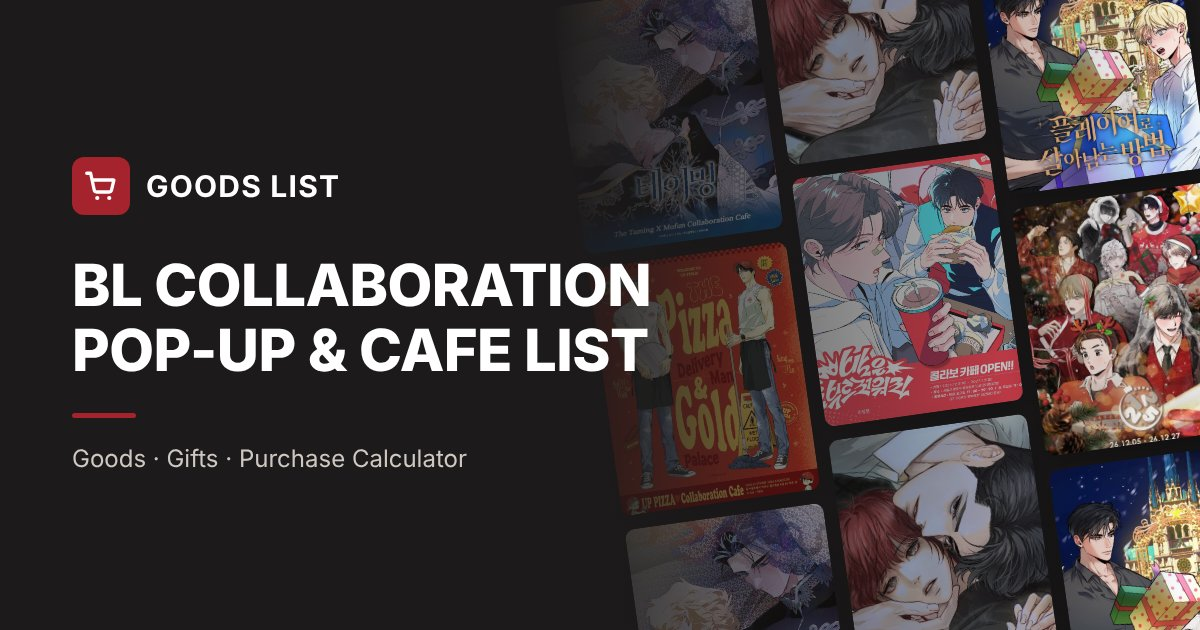
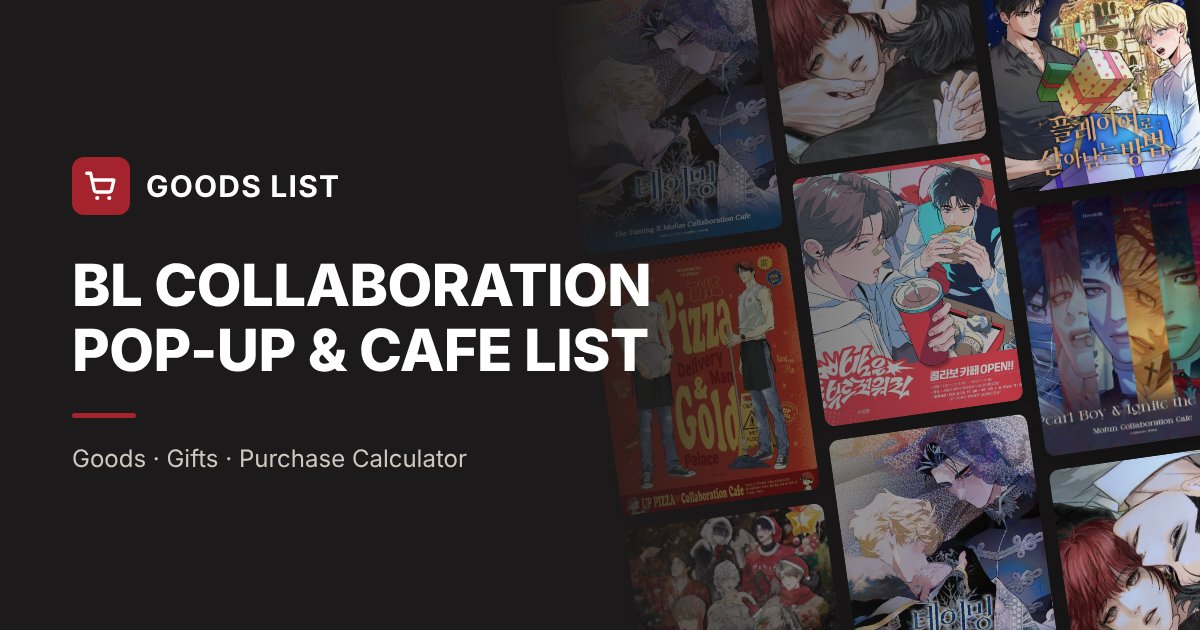
Add 조개소년 & 발화 × 모펀 서교점 event
Claude-Session: https://claude.ai/code/session_016s7oh25f265a5L8SgmxWsx

Changed region(s): [[0.5242, 0.2714, 1.0, 1.0]]

diff --git a/index.html b/index.html
@@ -11,14 +11,14 @@
 <meta property="og:title" content="GOODS LIST · BL 콜라보 팝업 & 카페 리스트">
 <meta property="og:description" content="BL 콜라보 팝업스토어·카페 굿즈 리스트와 구매 특전 계산기. 굿즈를 담으면 특전 개수와 합계를 바로 계산해요.">
 <meta property="og:url" content="https://rinixxxrini.github.io/">
-<meta property="og:image" content="https://rinixxxrini.github.io/img/og.jpg?v=20261126c">
+<meta property="og:image" content="https://rinixxxrini.github.io/img/og.jpg?v=20261127">
 <meta property="og:image:width" content="1200">
 <meta property="og:image:height" content="630">
 <meta property="og:locale" content="ko_KR">
 <meta name="twitter:card" content="summary_large_image">
 <meta name="twitter:title" content="GOODS LIST · BL 콜라보 팝업 & 카페 리스트">
 <meta name="twitter:description" content="BL 콜라보 팝업스토어·카페 굿즈 리스트와 구매 특전 계산기.">
-<meta name="twitter:image" content="https://rinixxxrini.github.io/img/og.jpg?v=20261126c">
+<meta name="twitter:image" content="https://rinixxxrini.github.io/img/og.jpg?v=20261127">
 <link rel="preconnect" href="https://fonts.googleapis.com">
 <link rel="preconnect" href="https://fonts.gstatic.com" crossorigin>
 <link href="https://fonts.googleapis.com/css2?family=Nanum+Myeongjo:wght@700;800&family=IBM+Plex+Sans+KR:wght@400;500;600&display=swap" rel="stylesheet">
@@ -104,9 +104,9 @@ header p{margin:6px 0 0;color:var(--muted);font-size:14px}
 .vars{display:grid;grid-template-columns:repeat(auto-fill,minmax(150px,1fr));gap:8px;margin-top:12px;padding-left:36px}
 .var{background:var(--chip);padding:6px 6px 6px 10px;border-radius:3px}
 .var .row{display:flex;align-items:center;justify-content:space-between;gap:6px}
-.var .vl{font-size:13px;font-weight:600;color:var(--muted)}
+.var .vl{font-size:13px;font-weight:600;color:var(--muted);white-space:nowrap}
 .var.long .row{flex-wrap:wrap;row-gap:4px}
-.var.long .vl{flex-basis:100%;word-break:keep-all}
+.var.long .vl{flex-basis:100%;word-break:keep-all;white-space:normal}
 .var.long .step{margin-left:auto}
 .var.has .vl{color:var(--ink)}
 .var .meta{font-size:11.5px;color:var(--muted);margin-top:3px;min-height:16px}
@@ -1068,6 +1068,28 @@ const MN_ITEMS = [
   {no:58,tag:"N8",cat:"야간 메뉴",name:"콘치즈 크래커",sub:"알콘달콘, 바삭쫀득 우리 사이",price:10000,noElig:true},
   {no:59,tag:"N9",cat:"야간 메뉴",name:"희재·우진 쿠키 (야간)",price:3000,vars:["희재","우진"],noElig:true},
 ];
+const PB_IMGS = {"1": "img/pb_imgs/1-7b54fe61.jpg", "2": "img/pb_imgs/2-f2836d2e.jpg", "3": "img/pb_imgs/3-49f88f80.jpg", "4": "img/pb_imgs/4-bd6c179f.jpg", "5": "img/pb_imgs/5-8f7945ca.jpg", "6": "img/pb_imgs/6-facb87b8.jpg", "7": "img/pb_imgs/7-b70e7451.jpg", "11": "img/pb_imgs/11-b4e78e17.jpg", "12": "img/pb_imgs/12-982901fa.jpg", "13": "img/pb_imgs/13-982901fa.jpg", "14": "img/pb_imgs/14-9bb34fcf.jpg", "15": "img/pb_imgs/15-dbbcec3e.jpg", "16": "img/pb_imgs/16-e7ee8d02.jpg", "17": "img/pb_imgs/17-9acc105d.jpg"};
+const PB_GIMG = {"coaster": "img/pb_gimg/coaster-fb5589be.jpg", "postcard": "img/pb_gimg/postcard-e8bf478b.jpg", "poster": "img/pb_gimg/poster-9765c896.jpg", "mini": "img/pb_gimg/mini-09d0ab39.jpg"};
+const PB_COVER = "img/pb_cover/cover-5b0f9a20.jpg";
+const PB_BOARD = "img/pb_guides/menu-5d85f98c.jpg";
+const PB_GUIDES = [{"title": "메뉴", "img": "img/pb_guides/menu-5d85f98c.jpg"}, {"title": "상품 안내", "img": "img/pb_guides/md-95d5a6dd.jpg"}, {"title": "증정품 안내", "img": "img/pb_guides/gift-e279c636.jpg"}, {"title": "포토카드 증정 이벤트", "img": "img/pb_guides/event-03472483.jpg"}, {"title": "이벤트 정보 · 예약 안내", "img": "img/pb_guides/info-277cb616.jpg"}, {"title": "메인 이미지", "img": "img/pb_guides/kv-cb35298c.jpg"}];
+const PB_CATS = ["카페 메뉴","상품"];
+const PB_ITEMS = [
+  {no:1,tag:"M1",cat:"카페 메뉴",name:"<두식&주하> 피어&엘더플라워 에이드",sub:"주님 앞에 저의 죄를 고백합니다.",price:7000,noElig:true},
+  {no:2,tag:"M2",cat:"카페 메뉴",name:"<승현&유타> 오디 주스",sub:"그대는 신의 사자인가, 나를 타락으로 이끌 유혹자인가.",price:7000,noElig:true},
+  {no:3,tag:"M3",cat:"카페 메뉴",name:"<대휘&대광> 블랙 라떼",sub:"나의 형제여, 나의 구원이여, 나의 영원한 죄여.",price:7000,noElig:true},
+  {no:4,tag:"M4",cat:"카페 메뉴",name:"<두식&주하> 치아바타 바질치즈 샌드위치",sub:"당신을 위해 기도하겠습니다.",price:9500,noElig:true},
+  {no:5,tag:"M5",cat:"카페 메뉴",name:"<승현&유타> 무화과 파운드",sub:"고개를 들어, 나를 바라보아라.",price:8500,noElig:true},
+  {no:6,tag:"M6",cat:"카페 메뉴",name:"<대휘&대광> 베리 초코 케이크",sub:"그대가 짊어질 죄가 되어주리라.",price:9000,noElig:true},
+  {no:7,tag:"M7",cat:"카페 메뉴",name:"캐릭터 쿠키 (2종)",price:4000,vars:["버터","초코"],noElig:true},
+  {no:11,tag:"01",cat:"상품",name:"디오라마 아크릴 스탠드 (3종)",price:32000,vars:["왼쪽","가운데","오른쪽"]},
+  {no:12,tag:"02-1",cat:"상품",name:"A5 일러스트 색지 세트 (3종)",price:24000},
+  {no:13,tag:"02-2",cat:"상품",name:"A5 일러스트 색지 낱개 (1종 랜덤)",price:8000},
+  {no:14,tag:"03",cat:"상품",name:"무드 포스터 세트",sub:"PET 포스터 1종 + 포토카드 1종",price:11000},
+  {no:15,tag:"04",cat:"상품",name:"Black Votive Candle 세트",sub:"블랙 캔들 1종 + 포토카드 3종 + 향 노트 포토카드 1종",price:35000},
+  {no:16,tag:"05-1",cat:"상품",name:"컨셉 포토 세트",sub:"아크릴 포토카드 키링 6종 + 엽서 6종",price:96000},
+  {no:17,tag:"05-2",cat:"상품",name:"랜덤 컨셉 포토",sub:"아크릴 포토카드 키링 1종 + 엽서 1종 (랜덤)",price:16000,limit:10,note:"1인 10개까지"},
+];
 const PL_COVER = "img/pl_cover/cover-810077b0.jpg";
 const PL_IMGS = {"1": "img/pl_imgs/1-740b688d.jpg", "2": "img/pl_imgs/2-ac8dda79.jpg", "3": "img/pl_imgs/3-7f7a1f38.jpg", "4": "img/pl_imgs/4-bd7bf479.jpg", "5": "img/pl_imgs/5-b17ed1e6.jpg", "6": "img/pl_imgs/6-901393cb.jpg", "7": "img/pl_imgs/7-bafe4613.jpg", "8": "img/pl_imgs/8-dfb8818d.jpg", "9": "img/pl_imgs/9-33f6c7bf.jpg", "10": "img/pl_imgs/10-4ef2654a.jpg", "11": "img/pl_imgs/11-82b5e652.jpg", "12": "img/pl_imgs/12-937864ee.jpg", "21": "img/pl_imgs/21-b328cac7.jpg", "22": "img/pl_imgs/22-b4b82106.jpg", "23": "img/pl_imgs/23-25ec5869.jpg", "24": "img/pl_imgs/24-d9dbe72c.jpg", "25": "img/pl_imgs/25-e6e258ed.jpg", "26": "img/pl_imgs/26-fb2bdbe2.jpg", "27": "img/pl_imgs/27-7cbbba8c.jpg", "28": "img/pl_imgs/28-a4e65366.jpg", "29": "img/pl_imgs/29-384d217f.jpg", "30": "img/pl_imgs/30-f665032f.jpg", "31": "img/pl_imgs/31-cd46b1d3.jpg", "32": "img/pl_imgs/32-2fe25643.jpg", "33": "img/pl_imgs/33-7282055d.jpg"};
 const PL_GIMG = {"set1": "img/pl_gimg/set1-31af1fda.jpg", "set2": "img/pl_gimg/set2-21e8bdbf.jpg", "coaster": "img/pl_gimg/coaster-28a7d321.jpg", "set3": "img/pl_gimg/set3-67aaa804.jpg", "card": "img/pl_gimg/card-b2b1f3b3.jpg", "pc": "img/pl_gimg/pc-34c77b94.jpg"};
@@ -1353,6 +1375,64 @@ const EVENTS = [{
     ]
   },
   guides:[PZ_GUIDES[0], ...PZ_GUIDES_ALL]
+},{
+  id:"pb",
+  work:"조개소년",
+  kw:"조개소년 발화 조개소년AU 조개소년 AU pearl boy ignite the dawn 깅깅 kingin 두식 주하 승현 유타 대휘 대광 모펀 mofun 서교 서교점 홍대",
+  rsv:true,
+  title:"조개소년 & 발화 × MOFUN",
+  cardSub:"모펀 콜라보카페 서교점",
+  sub:"모펀 콜라보카페 서교점",
+  subFull:"조개소년 & 발화 모펀 콜라보 카페(서교점) 계산기",
+  dates:"2026.12.4(금) - 2026.12.27(일)",
+  imgs:PB_IMGS, gimg:PB_GIMG,
+  menuBoard:PB_BOARD, menuCat:"카페 메뉴",
+  cover:PB_COVER,
+  hasLd:false,
+  combineCarts:true,
+  catLabel:"구분",
+  cats:PB_CATS,
+  items:PB_ITEMS,
+  giftTitle:"증정품",
+  cartHint:"장바구니 1개 = 영수증 1건이에요. 증정품은 당일 영수증에 한해 합산돼서 모든 장바구니를 합쳐 계산해요. 랜덤 컨셉 포토는 1인 10개까지 살 수 있어요.",
+  gifts:[
+    {id:"coaster",cafe:true,short:"코스터",name:"코스터 (6종)",cond:"콜라보 메뉴 1개당 1매 랜덤 · 당일 메뉴 6개 이상이면 6종 전부 증정",img:"coaster",rule:{type:"items",nos:[1,2,3,4,5,6,7]},unit:"매"},
+    {id:"postcard",short:"일러스트 엽서",name:"일러스트 엽서 (16종)",cond:"콜라보 상품 1만원 당 1매 랜덤 · 당일 16만원 이상이면 16종 전부 증정",img:"postcard",rule:{type:"per",amount:10000,cap:16},unit:"매"},
+    {id:"poster",short:"A4 포스터",name:"A4 포스터 (3종)",cond:"콜라보 상품 5만원 당 1매 랜덤 · 당일 15만원 이상이면 3종 전부 증정",img:"poster",rule:{type:"per",amount:50000,cap:3},unit:"매"},
+  ],
+  notes:[
+    "12/4(금)~12/6(일)은 사전 예약한 사람만 카페 이용과 상품 구매가 돼요.",
+    "12/7(월)부터는 좌석 이용은 사전 예약이 필요하고, 예약 없이 가면 식음료 테이크아웃과 상품 구매만 돼요.",
+    "예약은 11/29(일) 오후 8시 네이버 예약으로 열려요. 예약금 3,000원(카페 이용 시 환불) · 1회 최대 4인 · 당일 예약·취소 불가.",
+    "회차: 1회 11:00 · 2회 13:00 · 3회 15:00 · 4회 17:00 · 5회 19:00 (각 90분). 주문은 회차 종료 30분 전에 마감돼요.",
+    "결제와 주문은 예약자가 먼저예요. 비예약자는 회차 시작 30분 뒤부터 결제·주문할 수 있어요.",
+    "메뉴 최종 주문은 20시이고 이후엔 상품 결제만 돼요. 매장 마감 20시 30분.",
+    "증정품은 당일 영수증에 한해 합산해서 줘요. 엽서·포스터는 ‘콜라보 상품’ 금액 기준이라 카페 메뉴 금액은 포함하지 않고 계산했어요. (메뉴는 코스터만 증정)",
+    "증정품은 콜라보 기간 내 소진될 수 있어요. 오프라인과 온라인 구매 금액은 합산되지 않아요.",
+    "디오라마 아크릴 스탠드는 커플 구분이 확인되지 않아 이미지 순서(왼쪽·가운데·오른쪽)로 표시했어요.",
+    "카페 이용 시 1인 1메뉴 이상 주문이 원칙이고, 외부 음식 반입은 제한돼요. 식음료와 함께 나가는 허브와 장식품은 교환·환불 대상이 아니에요.",
+    "장소: 모펀 서교점 4층 (서울 마포구 홍익로2길 7, 서교동 345-8) · 홍대입구역 9번 출구. 변동 사항은 @mofun_collabo2 에서 안내해요.",
+    "공정상 생길 수 있는 흔적은 정상 범위라 교환이 어려워요. 상품 이미지는 시안이라 실제와 조금 다를 수 있어요."
+  ],
+  complete:{
+    title:"포토카드 증정 이벤트 (12/4~12/27)",
+    sub:"인증은 1인 1일 1회 최대 3장 · 체크는 자정이 지나면 풀려요",
+    items:[
+      {k:"e1",daily:true,img:"mini",name:"① SNS 팔로우 + 리트윗 · 미니 포토카드 1장 (랜덤)",cond:"모펀 콜라보카페 서교점 계정(@mofun_collabo2) 팔로우 & <조개소년 AU> 안내문 리트윗"},
+      {k:"e2",daily:true,img:"mini",name:"② 메뉴 주문 인증 · 미니 포토카드 1장 (랜덤)",cond:"콜라보 메뉴 주문 후 SNS에 필수 해시태그와 함께 사진 업로드 → 메뉴 구매 영수증을 가지고 모펀 스태프에게 인증"},
+      {k:"e3",daily:true,img:"mini",name:"③ 상품 구매 인증 · 미니 포토카드 1장 (랜덤)",cond:"콜라보 상품 구매 후 SNS에 필수 해시태그와 함께 사진 업로드 → 상품 구매 영수증을 가지고 모펀 스태프에게 인증"}
+    ],
+    collect:{n:9,title:"미니 포토카드 도감"},
+    note:"필수 해시태그: #조개소년 #발화 #깅깅 #모펀 #콜라보카페 · 미니 포토카드 9종 중 랜덤",
+    notes:[
+      "이벤트 기간 내 콜라보 상품 또는 메뉴 결제 영수증을 가지고 가면 인증할 수 있어요.",
+      "인증하면 결제 영수증에 ‘당일 인증 확인 도장’을 찍어줘요. 실물 영수증을 꼭 가져가야 해요.",
+      "콜라보 기간 동안 같은 영수증으로 재인증할 수 있어요. 인증은 1인당 1일 1회, 최대 3장까지예요.",
+      "인증용 사진에는 도용 방지를 위해 날짜와 아이디·닉네임 워터마크를 넣기를 권장해요.",
+      "증정품은 소진되면 증정이 끝나요. 공정상 생긴 흔적은 정상 범위라 교환이 어려워요."
+    ]
+  },
+  guides:PB_GUIDES
 },{
   id:"mn",
   work:"밤은 부드러워라",
@@ -1925,8 +2005,8 @@ const EVENTS = [{
   cartHint:"장바구니 1개 = 영수증 1건이에요. 증정품은 당일 영수증에 한해 합산돼서 모든 장바구니를 합쳐 계산해요. 나의 사한 세트만 1인 2세트 제한이 있어요.",
   gifts:[
     {id:"coaster",cafe:true,short:"코스터",name:"코스터 (8종)",cond:"콜라보 메뉴 1개당 1매 랜덤 (어린이 공룡 정식은 2매) · 당일 메뉴 8개 이상이면 8종 전부 증정",img:"coaster",rule:{type:"parts",parts:[{nos:[1,2,3,5,6,7]},{nos:[4],mult:2}]},unit:"매"},
-    {id:"postcard",short:"일러스트 엽서",name:"일러스트 엽서 (16종)",cond:"콜라보 상품 1만원 당 1매 랜덤 · 당일 16만원 이상이면 16종 전부 증정",img:"postcard",rule:{type:"per",amount:10000},unit:"매"},
-    {id:"poster",short:"A4 포스터",name:"A4 포스터 (3종)",cond:"콜라보 상품 5만원 당 1매 랜덤 · 당일 15만원 이상이면 3종 전부 증정",img:"poster",rule:{type:"per",amount:50000},unit:"매"},
+    {id:"postcard",short:"일러스트 엽서",name:"일러스트 엽서 (16종)",cond:"콜라보 상품 1만원 당 1매 랜덤 · 당일 16만원 이상이면 16종 전부 증정",img:"postcard",rule:{type:"per",amount:10000,cap:16},unit:"매"},
+    {id:"poster",short:"A4 포스터",name:"A4 포스터 (3종)",cond:"콜라보 상품 5만원 당 1매 랜덤 · 당일 15만원 이상이면 3종 전부 증정",img:"poster",rule:{type:"per",amount:50000,cap:3},unit:"매"},
   ],
   notes:[
     "증정품은 당일 영수증에 한해 합산해서 줘요.",
@@ -1981,7 +2061,7 @@ const EVENTS = [{
   gifts:[
     {id:"coaster",cafe:true,short:"코스터",name:"코스터 (8종)",cond:"콜라보 메뉴 1개당 1매 랜덤 · 당일 메뉴 8개 이상이면 8종 전부 증정",img:"coaster",rule:{type:"items",nos:[1,2,3,4,5,6,7]},unit:"매"},
     {id:"postcard",short:"일러스트 엽서",name:"일러스트 엽서 (20종)",cond:"콜라보 상품 1만원 당 1매 랜덤 · 당일 20만원 이상이면 20종 전부 증정",img:"postcard",rule:{type:"per",amount:10000},unit:"매"},
-    {id:"poster",short:"A4 포스터",name:"A4 포스터 (3종)",cond:"콜라보 상품 5만원 당 1매 랜덤 · 당일 15만원 이상이면 3종 전부 증정",img:"poster",rule:{type:"per",amount:50000},unit:"매"},
+    {id:"poster",short:"A4 포스터",name:"A4 포스터 (3종)",cond:"콜라보 상품 5만원 당 1매 랜덤 · 당일 15만원 이상이면 3종 전부 증정",img:"poster",rule:{type:"per",amount:50000,cap:3},unit:"매"},
   ],
   notes:[
     "증정품은 당일 영수증에 한해 합산해서 줘요.",
@@ -2217,8 +2297,8 @@ const EVENTS = [{
   cartHint:"장바구니 1개 = 영수증 1건이에요. 증정품은 당일 영수증에 한해 합산돼서 모든 장바구니를 합쳐 계산해요. 공지에는 구매 수량 제한이 따로 없었어요.",
   gifts:[
     {id:"coaster",cafe:true,short:"코스터",name:"코스터 (8종)",cond:"콜라보 메뉴 1개당 1매 랜덤 · 당일 메뉴 8개 이상이면 8종 전부 증정",img:"coaster",rule:{type:"items",nos:[1,2,3,4,5,6,7]},unit:"매"},
-    {id:"postcard",short:"일러스트 엽서",name:"일러스트 엽서 (16종)",cond:"콜라보 상품 1만원 당 1매 랜덤 · 당일 16만원 이상이면 16종 전부 증정",img:"postcard",rule:{type:"per",amount:10000},unit:"매"},
-    {id:"poster",short:"A4 포스터",name:"A4 포스터 (3종)",cond:"콜라보 상품 5만원 당 1매 랜덤 · 당일 15만원 이상이면 3종 전부 증정",img:"poster",rule:{type:"per",amount:50000},unit:"매"},
+    {id:"postcard",short:"일러스트 엽서",name:"일러스트 엽서 (16종)",cond:"콜라보 상품 1만원 당 1매 랜덤 · 당일 16만원 이상이면 16종 전부 증정",img:"postcard",rule:{type:"per",amount:10000,cap:16},unit:"매"},
+    {id:"poster",short:"A4 포스터",name:"A4 포스터 (3종)",cond:"콜라보 상품 5만원 당 1매 랜덤 · 당일 15만원 이상이면 3종 전부 증정",img:"poster",rule:{type:"per",amount:50000,cap:3},unit:"매"},
   ],
   notes:[
     "증정품은 당일 영수증에 한해 합산해서 증정돼요.",
@@ -2405,7 +2485,7 @@ const EVENTS = [{
 const GROUPS = {
   kdl:{work:"키스 미 이프 유 캔\n디자이어 미 이프 유 캔",kw:"키스 미 이프 유 캔 디자이어 미 이프 유 캔 키이프 디이프 kiss me if you can desire me if you can 키스 디자이어 랜드 굿즈모먼트 goodsmoment",title:"Kiss × Desire Land",sub:"굿즈모먼트 2F · 4F",dates:"2026.10.8(목) - 2026.11.1(일)",cover:KD_COVER,parts:["kdl-pop","kdl-cafe"],entry:"kdl-pop"}
 };
-const HOME = [{ev:"mn"},{ev:"xm"},{ev:"pl"},{ev:"dc"},{ev:"tm"},{ev:"wf"},{ev:"pz"},{ev:"ss"},{ev:"gs"},{ev:"af"},{ev:"jp"},{ev:"sp"},{ev:"usl"},{ev:"ws"},{ev:"jinx"},{group:"kdl"},{ev:"lap"},{ev:"sg"},{ev:"mtg"},{ev:"bv"},{ev:"sh"}];
+const HOME = [{ev:"pb"},{ev:"mn"},{ev:"xm"},{ev:"pl"},{ev:"dc"},{ev:"tm"},{ev:"wf"},{ev:"pz"},{ev:"ss"},{ev:"gs"},{ev:"af"},{ev:"jp"},{ev:"sp"},{ev:"usl"},{ev:"ws"},{ev:"jinx"},{group:"kdl"},{ev:"lap"},{ev:"sg"},{ev:"mtg"},{ev:"bv"},{ev:"sh"}];
 
 /* 날짜는 KST(한국 시간) 기준으로 판단해요 */
 const kstToday = () => { const d = new Date(Date.now() + 9*3600e3); return Date.UTC(d.getUTCFullYear(), d.getUTCMonth(), d.getUTCDate()); };
@@ -2857,7 +2937,7 @@ function varBox(it,v,cur,menuLabel){
     meta = others.map(x=>`${esc(x.n)} ${x.q}`).join(", ");
   }
   const box = document.createElement("div");
-  box.className = "var" + (!menuLabel && v && String(v).length>5 ? " long":"") + (q?" has":"") + (it.limit && atMax ? " max":"");
+  box.className = "var" + (!menuLabel && v && (it.vars||[]).some(x=>String(x).length>2) ? " long":"") + (q?" has":"") + (it.limit && atMax ? " max":"");
   box.innerHTML = (menuLabel ? `<div class="mlabel">${menuLabel}</div>` : "") +
     `<div class="row">${menuLabel ? "" : `<span class="vl">${v?`[${esc(v)}]`:"수량"}</span>`}
     <span class="step">
